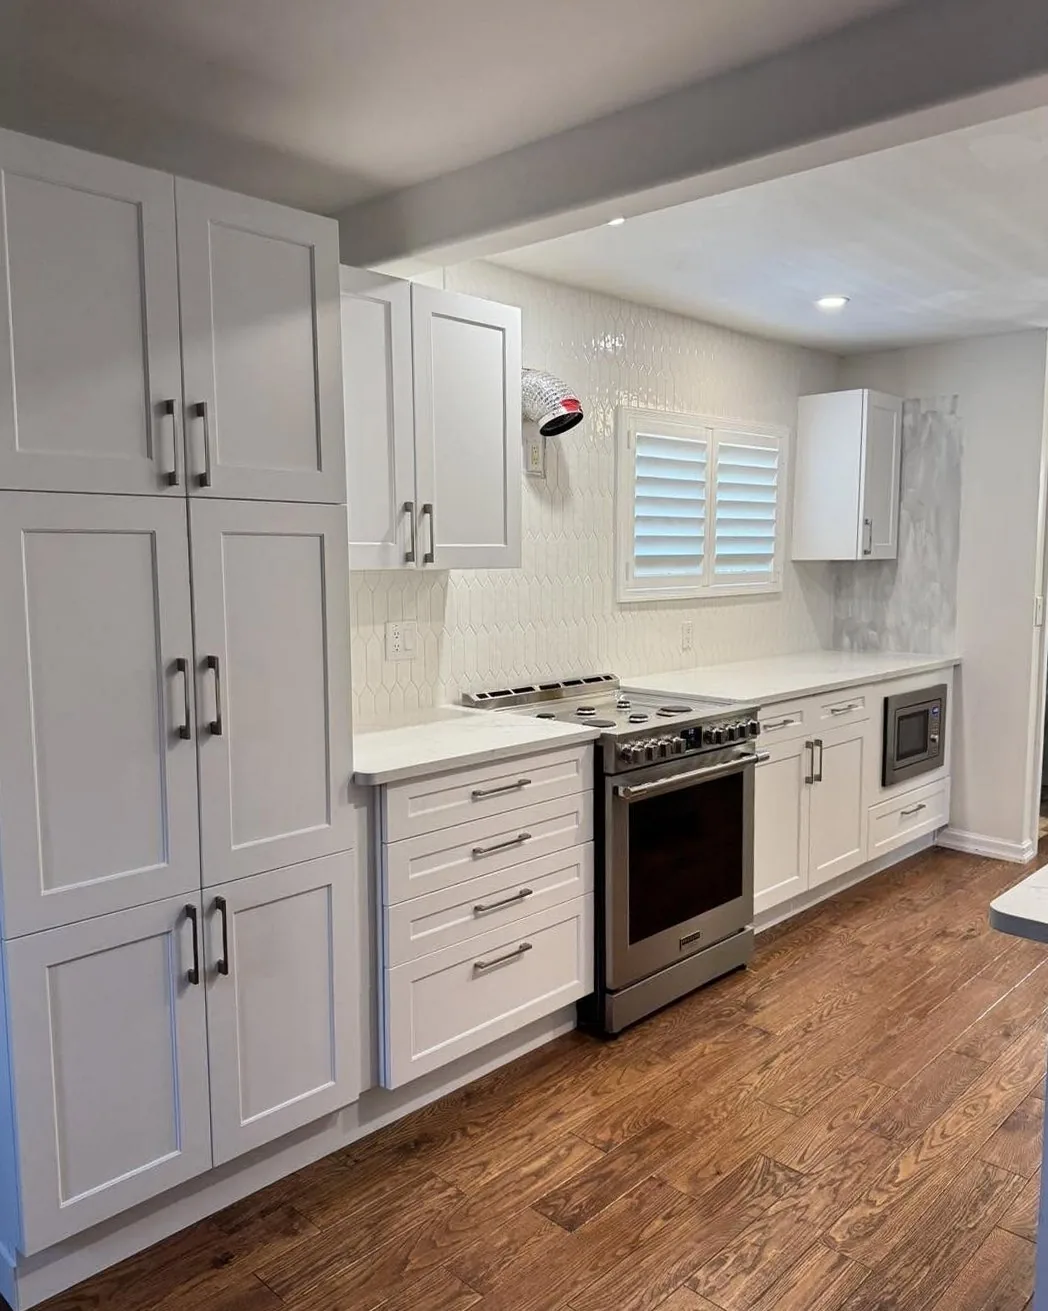
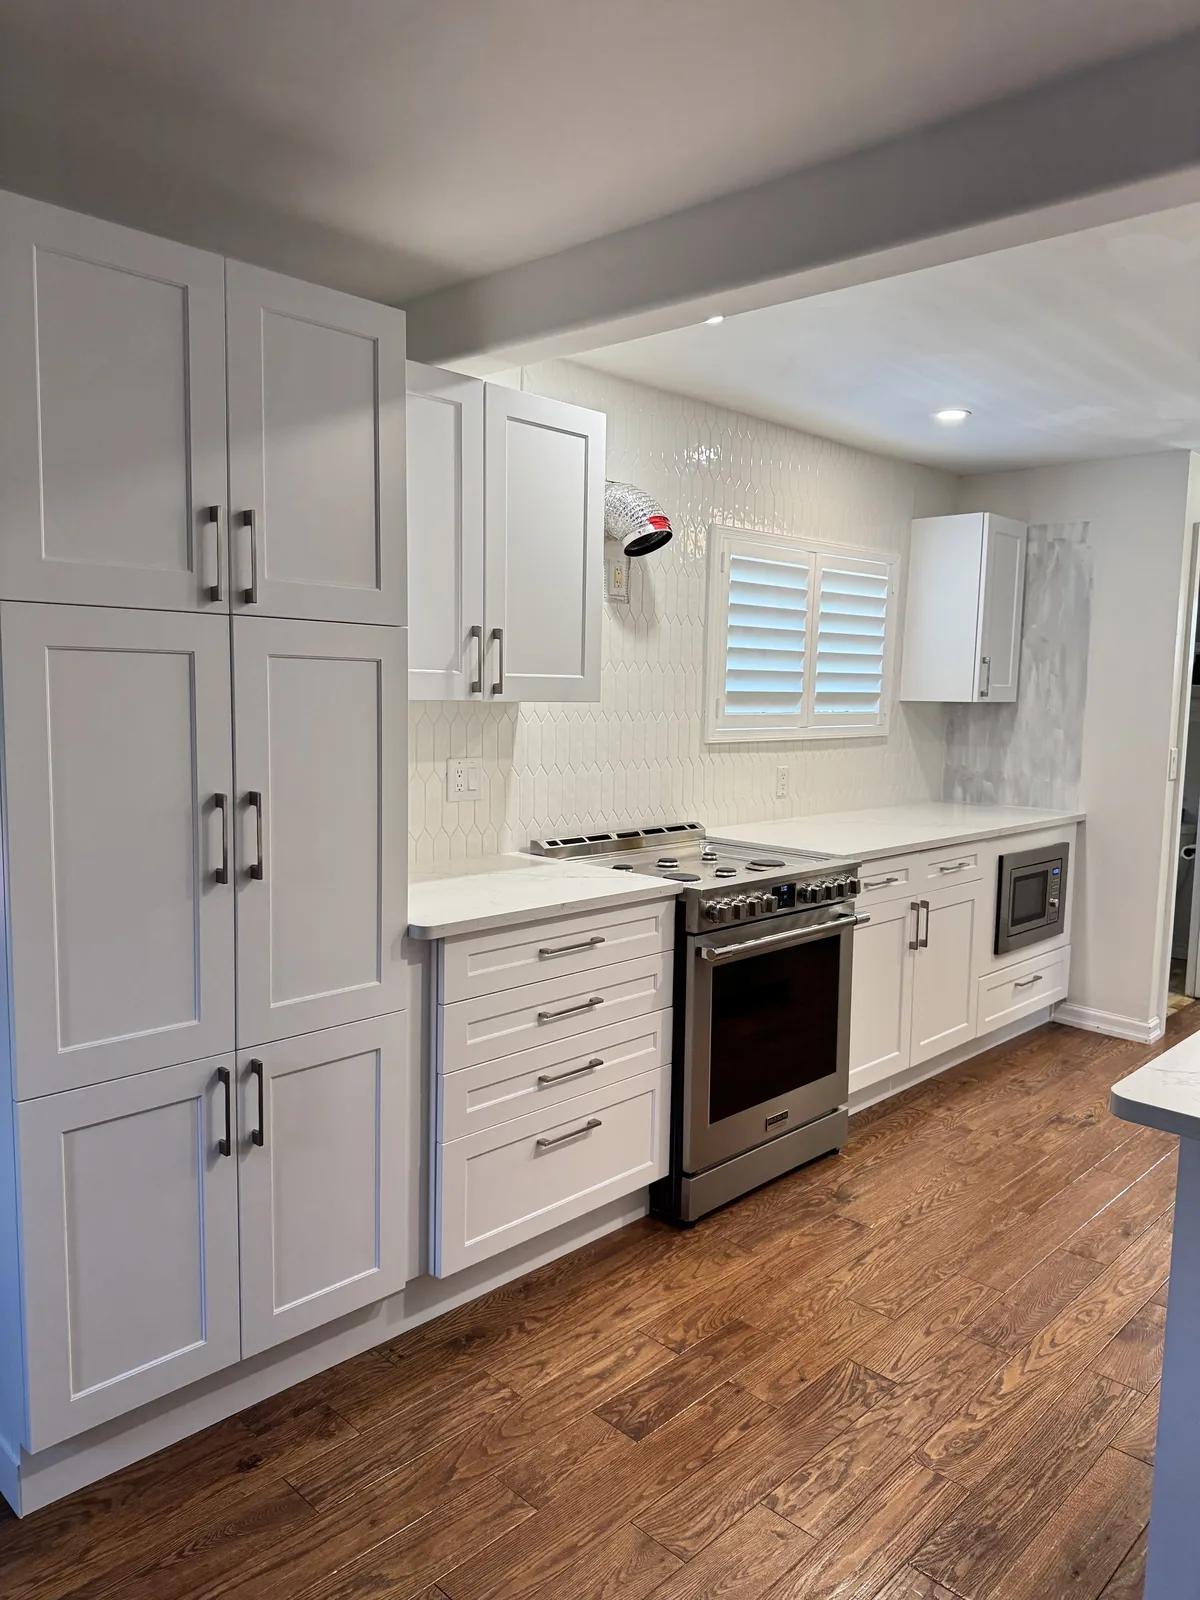
Add twenty photos from the Google Business Profile
Pulled from Joel's owner uploads. Requesting them at =s0 returns the
camera originals rather than the 600px versions the page displays, so
these arrive at 5712x4284 and are the best copies of this work we have.

Two are shots we already had at much lower resolution, so g-bath2-vanity
and g-wkit-run are replaced in place: 1176px and 1048px become 4284px
sources. A perceptual hash caught the first and missed the second at a
crop difference, so the whole set was checked against a contact sheet of
the existing gallery by eye rather than on the metric alone.

Four more join projects already in the gallery: a wider view of the
marble-look bathroom, the bench shot of the patterned floor shower, the
tub end of the white and black bathroom, and a second built-in.

Seven projects are new, including the marble and black bathroom, which is
one room photographed twice and so is one entry rather than two tiles.

Only the two marble bathroom shots were rotated, by two degrees. The tilt
estimator again reported 44 degrees on the herringbone backsplash and the
hexagon shower floor, which is the diagonal pattern fooling it rather
than a tilted camera, so those were left alone.

Everything is re-encoded through PIL, which writes no metadata, so the
published files carry no EXIF.

diff --git a/gallery.html b/gallery.html
@@ -28,6 +28,48 @@
         <li><a href="/services">Services</a></li>
         <li><a href="/gallery" aria-current="page">Gallery</a></li>
         <li><a href="/contact">Contact</a></li>
+        <li class="mosaic__item">
+          <button type="button" class="mosaic__btn" data-project="p13">
+            <img src="images/g-sage-wide.webp" alt="Sage green kitchen looking down the run to the range and hood" loading="lazy">
+            <span class="mosaic__label">Sage green kitchen<em>3 photos</em></span>
+          </button>
+        </li>
+        <li class="mosaic__item">
+          <button type="button" class="mosaic__btn" data-project="p14">
+            <img src="images/g-cbath-shower.webp" alt="Shower in marble look porcelain behind black framed glass" loading="lazy">
+            <span class="mosaic__label">Marble and black bathroom<em>2 photos</em></span>
+          </button>
+        </li>
+        <li class="mosaic__item">
+          <button type="button" class="mosaic__btn" data-project="p15">
+            <img src="images/g-tkit-wide.webp" alt="White kitchen with glazed upper cabinets and a tiled floor" loading="lazy">
+            <span class="mosaic__label">Traditional white kitchen<em>2 photos</em></span>
+          </button>
+        </li>
+        <li class="mosaic__item">
+          <button type="button" class="mosaic__btn" data-project="p16">
+            <img src="images/g-hkit-hood.webp" alt="Herringbone tiled range wall with a stainless chimney hood" loading="lazy">
+            <span class="mosaic__label">Herringbone range wall<em>1 photo</em></span>
+          </button>
+        </li>
+        <li class="mosaic__item">
+          <button type="button" class="mosaic__btn" data-project="p17">
+            <img src="images/g-gkit-backsplash.webp" alt="White geometric mosaic backsplash above a quartz counter" loading="lazy">
+            <span class="mosaic__label">Geometric backsplash<em>1 photo</em></span>
+          </button>
+        </li>
+        <li class="mosaic__item">
+          <button type="button" class="mosaic__btn" data-project="p18">
+            <img src="images/g-counters-oak.webp" alt="Quartz counters and a new backsplash fitted to existing oak cabinets" loading="lazy">
+            <span class="mosaic__label">New counters, existing cabinets<em>1 photo</em></span>
+          </button>
+        </li>
+        <li class="mosaic__item">
+          <button type="button" class="mosaic__btn" data-project="p19">
+            <img src="images/g-deck-wide.webp" alt="Raised cedar deck with privacy screening along two sides" loading="lazy">
+            <span class="mosaic__label">Deck and privacy screens<em>3 photos</em></span>
+          </button>
+        </li>
       </ul>
     </nav>
 
@@ -98,7 +140,7 @@
         <li class="mosaic__item">
           <button type="button" class="mosaic__btn" data-project="p3">
             <img src="images/g-mbath-shower.webp" alt="Shower in marble-look large-format tile" loading="lazy">
-            <span class="mosaic__label">Marble-look bathroom<em>4 photos</em></span>
+            <span class="mosaic__label">Marble-look bathroom<em>5 photos</em></span>
           </button>
         </li>
         <li class="mosaic__item">
@@ -122,19 +164,19 @@
         <li class="mosaic__item">
           <button type="button" class="mosaic__btn" data-project="p8">
             <img src="images/g-builtin-media.webp" alt="Built-in media wall in sage green" loading="lazy">
-            <span class="mosaic__label">Built-ins<em>2 photos</em></span>
+            <span class="mosaic__label">Built-ins<em>4 photos</em></span>
           </button>
         </li>
         <li class="mosaic__item">
           <button type="button" class="mosaic__btn" data-project="p9">
             <img src="images/g-pbath-room.webp" alt="The finished bathroom with patterned floor tile, looking through to the shower" loading="lazy">
-            <span class="mosaic__label">Bathroom with patterned floor<em>2 photos</em></span>
+            <span class="mosaic__label">Bathroom with patterned floor<em>3 photos</em></span>
           </button>
         </li>
         <li class="mosaic__item">
           <button type="button" class="mosaic__btn" data-project="p10">
             <img src="images/g-bath2-shower.webp" alt="Tub and shower with black framed sliding glass" loading="lazy">
-            <span class="mosaic__label">White and black bathroom<em>3 photos</em></span>
+            <span class="mosaic__label">White and black bathroom<em>4 photos</em></span>
           </button>
         </li>
         <li class="mosaic__item">
@@ -151,7 +193,7 @@
         </li>
       </ul>
 
-      <script type="application/json" id="project-data">{"p0": {"title": "Fireplace surround", "note": "Full-height porcelain in a marble look, run floor to ceiling and returned around the corner so no cut edge is ever on show. The mantel is solid timber on concealed blocks, set above a see-through firebox.", "photos": [{"src": "images/g-fire-room.webp", "alt": "Black marble-look fireplace surround running full height"}, {"src": "images/g-fire-wide.webp", "alt": "The surround straight on with television above the mantel"}, {"src": "images/g-fire-mantel.webp", "alt": "Timber mantel on cantilevered blocks above the firebox"}]}, "p1": {"title": "Charcoal shower", "note": "Large-format walls with a hexagon feature and a quartz bench. Behind all of it is a bonded waterproofing membrane taken up the walls and over the bench before a single tile went on. Levelling clips hold every tile flush while the mortar cures.", "photos": [{"src": "images/g-shower-done.webp", "alt": "Charcoal shower with hexagon feature wall and quartz bench", "stage": "Finished"}, {"src": "images/g-shower-progress.webp", "alt": "The same shower mid-build, waterproofing membrane and levelling clips visible", "stage": "During: waterproofing and levelling clips"}]}, "p2": {"title": "Fireplace and floating shelves", "note": "Concrete-look porcelain laid in herringbone, which means every tile is a cut and the pattern has to stay true right across the wall. Solid oak mantel and floating shelves, mitred where they return into the corner.", "photos": [{"src": "images/g-fire2-room.webp", "alt": "Living room with herringbone tiled fireplace wall and oak shelves"}, {"src": "images/g-fire2-wall.webp", "alt": "The fireplace wall straight on showing the herringbone pattern"}, {"src": "images/g-fire2-shelves.webp", "alt": "Solid oak floating shelves mitred into the corner"}]}, "p3": {"title": "Marble-look bathroom", "note": "Large-format porcelain with a pebble mosaic strip run floor to ceiling as a feature. The niche is framed in quartz so there is no exposed tile edge anywhere you would put your hand.", "photos": [{"src": "images/g-mbath-shower.webp", "alt": "Shower in marble-look large-format tile"}, {"src": "images/g-mbath-niche.webp", "alt": "Pebble mosaic feature strip beside a quartz-framed niche"}, {"src": "images/g-mbath-vanity.webp", "alt": "Vessel sink on a shaped quartz counter"}, {"src": "images/g-mbath-wide.webp", "alt": "The finished room with round mirror and sconces"}]}, "p4": {"title": "Navy kitchen", "note": "Shaker cabinetry with a quartz island, glazed subway backsplash and brass pendants. The island end is panelled with a cross detail rather than left flat.", "photos": [{"src": "images/g-kitchen-wide.webp", "alt": "Finished navy kitchen seen from the dining area"}, {"src": "images/g-kitchen-island.webp", "alt": "The island from the side showing the cross-panel end"}, {"src": "images/g-kitchen-range.webp", "alt": "Range wall with stainless hood and tiled backsplash"}, {"src": "images/g-kitchen-galley.webp", "alt": "View along the cabinetry to the farmhouse sink"}]}, "p5": {"title": "Basement, start to finish", "note": "Exposed joists and a concrete floor turned into a laundry and hallway. Framing, insulation and drywall through to herringbone tile, oak cabinetry and a quartz top.", "photos": [{"src": "images/g-base-laundry.webp", "alt": "Finished basement laundry with oak cabinetry and herringbone tile", "stage": "After"}, {"src": "images/g-floor-hall.webp", "alt": "Finished hallway with herringbone tile running through", "stage": "After"}, {"src": "images/g-base-before.webp", "alt": "The same basement before, exposed joists and concrete floor", "stage": "Before"}, {"src": "images/g-base-during.webp", "alt": "Framed up mid-build", "stage": "During: framing"}]}, "p6": {"title": "White shaker kitchen", "note": "Quartz peninsula, picket tile backsplash and a full run of shaker cabinetry opened to the living room. The floor was out of level, so the boxes were cut and scribed to sit true rather than shimmed.", "photos": [{"src": "images/g-wkit-open.webp", "alt": "White shaker kitchen open to the living room"}, {"src": "images/g-wkit-peninsula.webp", "alt": "Quartz peninsula with undermount sink and pendants"}, {"src": "images/g-wkit-range.webp", "alt": "Range wall with picket tile backsplash"}, {"src": "images/g-wkit-run.webp", "alt": "Full cabinetry run with tall pantry"}]}, "p7": {"title": "Tiled tub surround", "note": "The plastic surround that came with the bathroom was torn out and replaced with large-format porcelain, including a recessed niche trimmed in the same tile so the edges are mitred rather than capped. The before photograph is the old surround, not our work.", "photos": [{"src": "images/g-tub-after.webp", "alt": "Tiled tub surround in marble-look large format with a recessed niche", "stage": "After: tiled"}, {"src": "images/g-tub-before.webp", "alt": "The same tub before, with a moulded plastic surround", "stage": "Before: existing plastic surround"}]}, "p8": {"title": "Built-ins", "note": "Cabinetry built for the room it sits in rather than bought to fit it. Media wall with drawer banks and upper cabinets, and a fitted closet with shelving and rails set out to the owner's things.", "photos": [{"src": "images/g-builtin-media.webp", "alt": "Built-in media wall in sage green"}, {"src": "images/g-closet.webp", "alt": "Fitted closet with built-in shelving and rails"}]}, "p9": {"title": "Bathroom with patterned floor", "note": "Patterned floor tile laid so the repeat stays centred in the room, with a marble-look shower behind frameless glass.", "photos": [{"src": "images/g-pbath-room.webp", "alt": "The finished bathroom with patterned floor tile, looking through to the shower"}, {"src": "images/g-pbath-shower.webp", "alt": "Marble-look shower with glass surround"}]}, "p10": {"title": "White and black bathroom", "note": "Handmade-look subway run as a wainscot with a capped edge, black fittings throughout, and slate-look floor tile.", "photos": [{"src": "images/g-bath2-shower.webp", "alt": "Tub and shower with black framed sliding glass"}, {"src": "images/g-bath2-vanity.webp", "alt": "Vanity with arched black-framed mirror"}, {"src": "images/g-bath2-wide.webp", "alt": "The finished room showing the tiled wainscot"}]}, "p11": {"title": "Basement laundry", "note": "Backsplash tile set off a laser line with levelling clips, a coffered ceiling, plank flooring and fitted panelled doors.", "photos": [{"src": "images/g-laundry-wide.webp", "alt": "Finished basement laundry with tiled backsplash and coffered ceiling"}, {"src": "images/g-laundry-tiling.webp", "alt": "Joel setting the backsplash off a laser line", "stage": "During: setting the backsplash"}, {"src": "images/g-laundry-sink.webp", "alt": "Laundry sink and taps against the tiled wall"}]}, "p12": {"title": "Backsplashes", "note": "Arabesque glass and chevron mosaic. Both are laid out dry first so the cuts land where they are least seen, at the edges rather than through the middle of the wall.", "photos": [{"src": "images/g-tile-arabesque.webp", "alt": "Blue and grey arabesque glass tile backsplash"}, {"src": "images/g-tile-chevron.webp", "alt": "White chevron mosaic tile backsplash"}]}}</script>
+      <script type="application/json" id="project-data">{"p0": {"title": "Fireplace surround", "note": "Full-height porcelain in a marble look, run floor to ceiling and returned around the corner so no cut edge is ever on show. The mantel is solid timber on concealed blocks, set above a see-through firebox.", "photos": [{"src": "images/g-fire-room.webp", "alt": "Black marble-look fireplace surround running full height"}, {"src": "images/g-fire-wide.webp", "alt": "The surround straight on with television above the mantel"}, {"src": "images/g-fire-mantel.webp", "alt": "Timber mantel on cantilevered blocks above the firebox"}]}, "p1": {"title": "Charcoal shower", "note": "Large-format walls with a hexagon feature and a quartz bench. Behind all of it is a bonded waterproofing membrane taken up the walls and over the bench before a single tile went on. Levelling clips hold every tile flush while the mortar cures.", "photos": [{"src": "images/g-shower-done.webp", "alt": "Charcoal shower with hexagon feature wall and quartz bench", "stage": "Finished"}, {"src": "images/g-shower-progress.webp", "alt": "The same shower mid-build, waterproofing membrane and levelling clips visible", "stage": "During: waterproofing and levelling clips"}]}, "p2": {"title": "Fireplace and floating shelves", "note": "Concrete-look porcelain laid in herringbone, which means every tile is a cut and the pattern has to stay true right across the wall. Solid oak mantel and floating shelves, mitred where they return into the corner.", "photos": [{"src": "images/g-fire2-room.webp", "alt": "Living room with herringbone tiled fireplace wall and oak shelves"}, {"src": "images/g-fire2-wall.webp", "alt": "The fireplace wall straight on showing the herringbone pattern"}, {"src": "images/g-fire2-shelves.webp", "alt": "Solid oak floating shelves mitred into the corner"}]}, "p3": {"title": "Marble-look bathroom", "note": "Large-format porcelain with a pebble mosaic strip run floor to ceiling as a feature. The niche is framed in quartz so there is no exposed tile edge anywhere you would put your hand.", "photos": [{"src": "images/g-mbath-shower.webp", "alt": "Shower in marble-look large-format tile"}, {"src": "images/g-mbath-niche.webp", "alt": "Pebble mosaic feature strip beside a quartz-framed niche"}, {"src": "images/g-mbath-vanity.webp", "alt": "Vessel sink on a shaped quartz counter"}, {"src": "images/g-mbath-wide.webp", "alt": "The finished room with round mirror and sconces"}, {"src": "images/g-mbath-tub.webp", "alt": "The same bathroom wider, showing the tub set into the tiled surround"}]}, "p4": {"title": "Navy kitchen", "note": "Shaker cabinetry with a quartz island, glazed subway backsplash and brass pendants. The island end is panelled with a cross detail rather than left flat.", "photos": [{"src": "images/g-kitchen-wide.webp", "alt": "Finished navy kitchen seen from the dining area"}, {"src": "images/g-kitchen-island.webp", "alt": "The island from the side showing the cross-panel end"}, {"src": "images/g-kitchen-range.webp", "alt": "Range wall with stainless hood and tiled backsplash"}, {"src": "images/g-kitchen-galley.webp", "alt": "View along the cabinetry to the farmhouse sink"}]}, "p5": {"title": "Basement, start to finish", "note": "Exposed joists and a concrete floor turned into a laundry and hallway. Framing, insulation and drywall through to herringbone tile, oak cabinetry and a quartz top.", "photos": [{"src": "images/g-base-laundry.webp", "alt": "Finished basement laundry with oak cabinetry and herringbone tile", "stage": "After"}, {"src": "images/g-floor-hall.webp", "alt": "Finished hallway with herringbone tile running through", "stage": "After"}, {"src": "images/g-base-before.webp", "alt": "The same basement before, exposed joists and concrete floor", "stage": "Before"}, {"src": "images/g-base-during.webp", "alt": "Framed up mid-build", "stage": "During: framing"}]}, "p6": {"title": "White shaker kitchen", "note": "Quartz peninsula, picket tile backsplash and a full run of shaker cabinetry opened to the living room. The floor was out of level, so the boxes were cut and scribed to sit true rather than shimmed.", "photos": [{"src": "images/g-wkit-open.webp", "alt": "White shaker kitchen open to the living room"}, {"src": "images/g-wkit-peninsula.webp", "alt": "Quartz peninsula with undermount sink and pendants"}, {"src": "images/g-wkit-range.webp", "alt": "Range wall with picket tile backsplash"}, {"src": "images/g-wkit-run.webp", "alt": "Full cabinetry run with tall pantry"}]}, "p7": {"title": "Tiled tub surround", "note": "The plastic surround that came with the bathroom was torn out and replaced with large-format porcelain, including a recessed niche trimmed in the same tile so the edges are mitred rather than capped. The before photograph is the old surround, not our work.", "photos": [{"src": "images/g-tub-after.webp", "alt": "Tiled tub surround in marble-look large format with a recessed niche", "stage": "After: tiled"}, {"src": "images/g-tub-before.webp", "alt": "The same tub before, with a moulded plastic surround", "stage": "Before: existing plastic surround"}]}, "p8": {"title": "Built-ins", "note": "Cabinetry built for the room it sits in rather than bought to fit it. Media wall with drawer banks and upper cabinets, and a fitted closet with shelving and rails set out to the owner's things.", "photos": [{"src": "images/g-builtin-media.webp", "alt": "Built-in media wall in sage green"}, {"src": "images/g-closet.webp", "alt": "Fitted closet with built-in shelving and rails"}, {"src": "images/g-builtin-panel.webp", "alt": "Built-in cabinet run below a cross-braced panelled wall"}, {"src": "images/g-closet2.webp", "alt": "Fitted closet with adjustable shelving and a double hanging rail"}]}, "p9": {"title": "Bathroom with patterned floor", "note": "Patterned floor tile laid so the repeat stays centred in the room, with a marble-look shower behind frameless glass.", "photos": [{"src": "images/g-pbath-room.webp", "alt": "The finished bathroom with patterned floor tile, looking through to the shower"}, {"src": "images/g-pbath-shower.webp", "alt": "Marble-look shower with glass surround"}, {"src": "images/g-pbath-bench.webp", "alt": "The shower from the doorway, showing the bench and the patterned floor"}]}, "p10": {"title": "White and black bathroom", "note": "Handmade-look subway run as a wainscot with a capped edge, black fittings throughout, and slate-look floor tile.", "photos": [{"src": "images/g-bath2-shower.webp", "alt": "Tub and shower with black framed sliding glass"}, {"src": "images/g-bath2-vanity.webp", "alt": "Vanity with arched black-framed mirror"}, {"src": "images/g-bath2-wide.webp", "alt": "The finished room showing the tiled wainscot"}, {"src": "images/g-bath2-tub.webp", "alt": "The tub and black framed glass seen from the vanity end"}]}, "p11": {"title": "Basement laundry", "note": "Backsplash tile set off a laser line with levelling clips, a coffered ceiling, plank flooring and fitted panelled doors.", "photos": [{"src": "images/g-laundry-wide.webp", "alt": "Finished basement laundry with tiled backsplash and coffered ceiling"}, {"src": "images/g-laundry-tiling.webp", "alt": "Joel setting the backsplash off a laser line", "stage": "During: setting the backsplash"}, {"src": "images/g-laundry-sink.webp", "alt": "Laundry sink and taps against the tiled wall"}]}, "p12": {"title": "Backsplashes", "note": "Arabesque glass and chevron mosaic. Both are laid out dry first so the cuts land where they are least seen, at the edges rather than through the middle of the wall.", "photos": [{"src": "images/g-tile-arabesque.webp", "alt": "Blue and grey arabesque glass tile backsplash"}, {"src": "images/g-tile-chevron.webp", "alt": "White chevron mosaic tile backsplash"}]}, "p13": {"title": "Sage green kitchen", "note": "Flat panel cabinetry in a muted green with a fireclay apron sink and a built on site hood. The subway tile is stacked to a laser line rather than followed off the counter, so the joints stay true the full width of the wall.", "photos": [{"src": "images/g-sage-wide.webp", "alt": "Sage green kitchen looking down the run to the range and hood"}, {"src": "images/g-sage-sink.webp", "alt": "Fireclay apron sink under the window with subway tile behind"}, {"src": "images/g-sage-fridge.webp", "alt": "Tall cabinetry beside the fridge with a built in microwave"}]}, "p14": {"title": "Marble and black bathroom", "note": "Tub and shower in one room, in large format porcelain with a marble look. The tub apron is tiled and mitred at the corner rather than capped with trim, and the niche is lined in the same dark hexagon mosaic as the floor.", "photos": [{"src": "images/g-cbath-shower.webp", "alt": "Shower in marble look porcelain behind black framed glass"}, {"src": "images/g-cbath-tub.webp", "alt": "Tub set into a tiled surround with black fittings"}]}, "p15": {"title": "Traditional white kitchen", "note": "Painted cabinetry with glazed upper doors, a tiled backsplash and large format stone look floor tile carried through into the dining area.", "photos": [{"src": "images/g-tkit-wide.webp", "alt": "White kitchen with glazed upper cabinets and a tiled floor"}, {"src": "images/g-tkit-glass.webp", "alt": "Cabinetry beside the patio door with glass fronted uppers"}]}, "p16": {"title": "Herringbone range wall", "note": "Stone look porcelain run in herringbone the full height behind the range. Every tile in a herringbone is a cut, and the layout is set off the centre line of the hood so the pattern stays symmetrical on both sides.", "photos": [{"src": "images/g-hkit-hood.webp", "alt": "Herringbone tiled range wall with a stainless chimney hood"}]}, "p17": {"title": "Geometric backsplash", "note": "A geometric mosaic against dark stained cabinetry and a quartz counter. Sheet mosaic shows every misalignment, so the sheets are dry laid across the whole run and the grid trued up before any of it is fixed.", "photos": [{"src": "images/g-gkit-backsplash.webp", "alt": "White geometric mosaic backsplash above a quartz counter"}]}, "p18": {"title": "New counters, existing cabinets", "note": "The oak was sound and worth keeping, so the job was quartz counters, a new sink and tap and a tiled backsplash, rather than tearing out a kitchen that had years left in it.", "photos": [{"src": "images/g-counters-oak.webp", "alt": "Quartz counters and a new backsplash fitted to existing oak cabinets"}]}, "p19": {"title": "Deck and privacy screens", "note": "A raised deck with cedar privacy screens. The screens are framed and infilled rather than butted together, so the boards can move with the weather without opening gaps along the joints.", "photos": [{"src": "images/g-deck-wide.webp", "alt": "Raised cedar deck with privacy screening along two sides"}, {"src": "images/g-deck-screen.webp", "alt": "Privacy screens and steps down to the garden"}, {"src": "images/g-deck-cedar.webp", "alt": "Cedar screen wall seen along the deck"}]}}</script>
     </div>
   </section>
 
